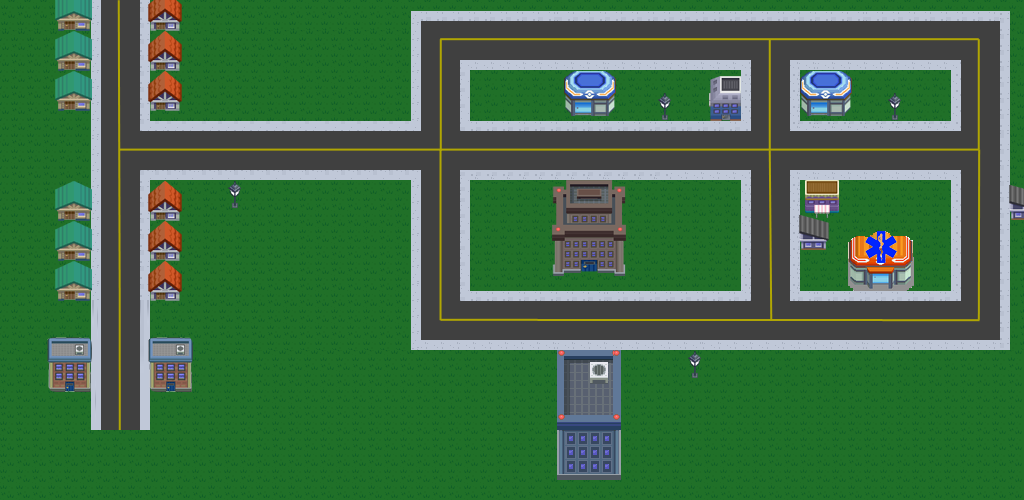
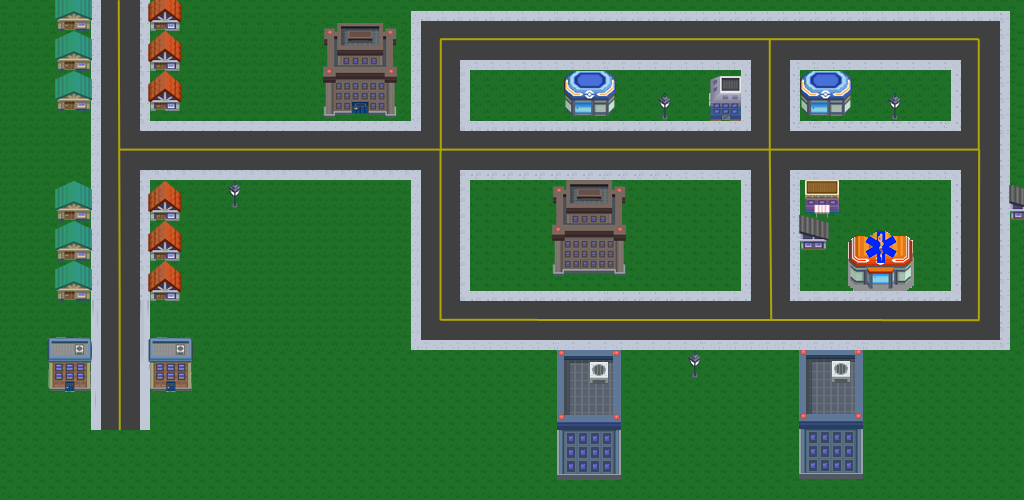
added +1 bank +1 market

Changed region(s): [[0.3125, 0.03, 0.4062, 0.24], [0.7812, 0.69, 0.8438, 0.96], [0.5625, 0.51, 0.5938, 0.57]]

diff --git a/src/city/gui/CityGui.java b/src/city/gui/CityGui.java
@@ -93,6 +93,7 @@ public class CityGui extends JFrame implements ActionListener {
 	public int dayOfWeek = 0;
 	public Timer timer;
 	BankGui bankGui;
+	BankGui bankGui2;
 	public CityPanel cityPanel;
 	public JPanel buildingPanels;
 	CardLayout cardLayout;
@@ -113,6 +114,7 @@ public class CityGui extends JFrame implements ActionListener {
 
 
 	MarketGui marketGui;
+	MarketGui marketGui2;
 	List<House> houses = new ArrayList<House>();
 	List<HouseAnimationPanel> houseAnimationPanels = new ArrayList<HouseAnimationPanel>();
 	List<HouseAnimationPanel> apartment1HouseAnimationPanels = new ArrayList<HouseAnimationPanel>();
@@ -200,6 +202,7 @@ public class CityGui extends JFrame implements ActionListener {
 		timer = new Timer(5, this);
 		
 		bankGui = new BankGui(timer);
+		bankGui2 = new BankGui(timer);
 		BankTellerRole = new TellerRole(bankGui); 
 		BankTellerRole.setTag(AlertTag.BANK);
 		bank.t = BankTellerRole;
@@ -216,6 +219,7 @@ public class CityGui extends JFrame implements ActionListener {
 
 		
 		marketGui = new MarketGui(timer);
+		marketGui2 = new MarketGui(timer);
 		MarketEmployeeRole = new MarketEmployeeRole(marketGui);
 		MarketEmployeeRole.setTag(AlertTag.MARKET);
 		market = new Market(MarketEmployeeRole, new Dimension(100,100),"Market 1"); 
@@ -324,6 +328,8 @@ public class CityGui extends JFrame implements ActionListener {
 		apartment2Container.setOpaque(true);
 		JScrollPane marketContainer = new JScrollPane(marketGui);
 		marketContainer.setOpaque(true);
+		JScrollPane market2Container = new JScrollPane(marketGui2);
+		market2Container.setOpaque(true);
 		JScrollPane restaurantContainer = new JScrollPane(restaurantGuiYc);
 		restaurantContainer.setOpaque(true);
 		JScrollPane restaurantContainerZT = new JScrollPane(restaurantGuiZt);
@@ -338,6 +344,8 @@ public class CityGui extends JFrame implements ActionListener {
 		restaurantContainerVK.setOpaque(true);
 		JScrollPane bankContainer = new JScrollPane(bankGui);
 		bankContainer.setOpaque(true);
+		JScrollPane bank2Container = new JScrollPane(bankGui2);
+		bank2Container.setOpaque(true);
 		JScrollPane busStop1Container = new JScrollPane(this.cityPanel.busStops.get(0).getGui());
 		busStop1Container.setOpaque(true);
 		JScrollPane busStop2Container = new JScrollPane(this.cityPanel.busStops.get(1).getGui());
@@ -361,9 +369,13 @@ public class CityGui extends JFrame implements ActionListener {
         buildingPanels.add(restaurantContainerPS, "" + 21);
 
 
-        buildingPanels.add(bankContainer, "" + 15);
+        buildingPanels.add(bank2Container, "" + 15);
+        buildingPanels.add(bank2Container, "" + 23);
+
         
         buildingPanels.add(marketContainer,"" + 14);
+        buildingPanels.add(market2Container,"" + 22);
+
         
         buildingPanels.add(busStop1Container,"" + cityPanel.busStops.get(0).getBuildingNumber());
         buildingPanels.add(busStop2Container,"" + cityPanel.busStops.get(1).getBuildingNumber());
@@ -414,13 +426,6 @@ public class CityGui extends JFrame implements ActionListener {
 		
 		timer.start();
 		this.setDefaultCloseOperation(WindowConstants.EXIT_ON_CLOSE);
-//		PeopleAgent person = new PeopleAgent("TEST PERSON", 1000.0, false);
-//		PersonGui personGui = new PersonGui( 5, 5, 5, 5, this.sidewalkStrip1,this.sidewalkStrip1.get(0),this.allSidewalks, this, person);					
-//		personGui.setDestination("Bus Stop 1");
-//		personGui.setSidewalk(allSidewalks.get(23).get(24));
-//		personGui.setSideWalkSegment(allSidewalks.get(23));
-//		personGui.setDirection("left");
-//		this.people.add(personGui);
 
 	}
 	

diff --git a/src/city/gui/CityPanel.java b/src/city/gui/CityPanel.java
@@ -743,6 +743,10 @@ public class CityPanel extends JPanel implements MouseListener {
 //		buildings.add(bank2);
 		Building restaurant6 = new Building( hozX + 660, hozY + 140, 20, 40, 982, 180, "Restaurant 6" );
 		buildings.add(restaurant6);
+		Building market2 = new Building( hozX + 450, hozY + 310, 60, 140, 580, 322, "Market 2" );
+		buildings.add(market2);
+		Building bank2 = new Building( hozX - 30, hozY, 90, 70, 580, 42, "Bank 2" );
+		buildings.add(bank2);
 //		Building restaurant7 = new Building( hozX + 450, hozY + 190, 20, 20, 580, 322, "Restaurant 7" );
 //		buildings.add(restaurant7);
 //		
